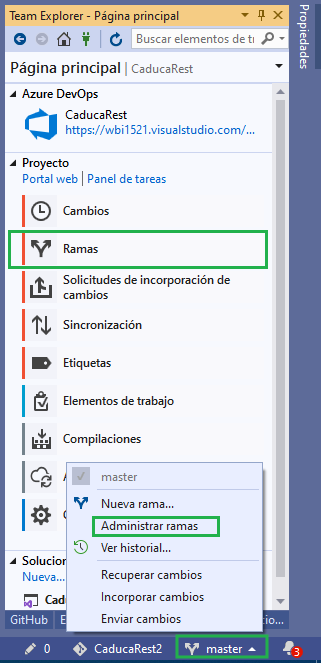
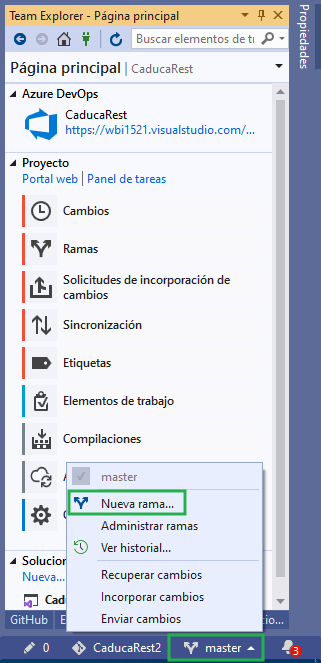
GitBook: [master] one page and 5 assets modified

diff --git a/tu-primer-aplicacion/integrando-tu-codigo-fuente-a-visual-studio-team-services/3.1.7-trabajando-con-ramas-branches-en-visual-studio/3.1.8.3-crear-una-rama-branch-desde-visual-studio-community.md b/tu-primer-aplicacion/integrando-tu-codigo-fuente-a-visual-studio-team-services/3.1.7-trabajando-con-ramas-branches-en-visual-studio/3.1.8.3-crear-una-rama-branch-desde-visual-studio-community.md
@@ -14,7 +14,7 @@ Opción 2:
 
 En la esquina inferior izquierda ves la palabra master signfica que el código que se muestra en la rama master. Das clic con el botón derecho en master -&gt; Administrar ramas
 
-![](../../../.gitbook/assets/image%20%28463%29.png)
+![](../../../.gitbook/assets/image%20%28464%29.png)
 
 ### Crear ramas
 
@@ -28,7 +28,7 @@ Opción 2:
 
 1. En la rama master -&gt; Nueva rama ...
 
-![](../../../.gitbook/assets/image%20%28464%29.png)
+![](../../../.gitbook/assets/image%20%28463%29.png)
 
 2.En la parte superior teclea el nombre de la rama, en este ejemplo es **features/356Task357** en el combo se muestran las ramas actuales, selecciona que vas a tomar el código de origing/desarrollo. Por último da clic en **Crear rama.** 
 
@@ -79,13 +79,13 @@ Si luego deseas volver a obtener los cambios por ejemplo de alguna rama nuevamen
 * En Team Explorer -&gt; Home -&gt; Ramas
 * En la rama master -&gt; Administrar Ramas 
 
-![](../../../.gitbook/assets/image%20%28463%29.png)
+![](../../../.gitbook/assets/image%20%28464%29.png)
 
 Se muestra la lista de ramas disponibles y seleccionas la rama disponible, en mi caso es master, por eso se muestra en negritas.
 
 2. Da clic en la rama a la que deseas conectarte.
 
-![](../../../.gitbook/assets/image%20%28466%29.png)
+![](../../../.gitbook/assets/image%20%28467%29.png)
 
 3. Una vez seleccionada la rama, nuevamente en Team-&gt;Explorer -&gt; Sincronización
 
